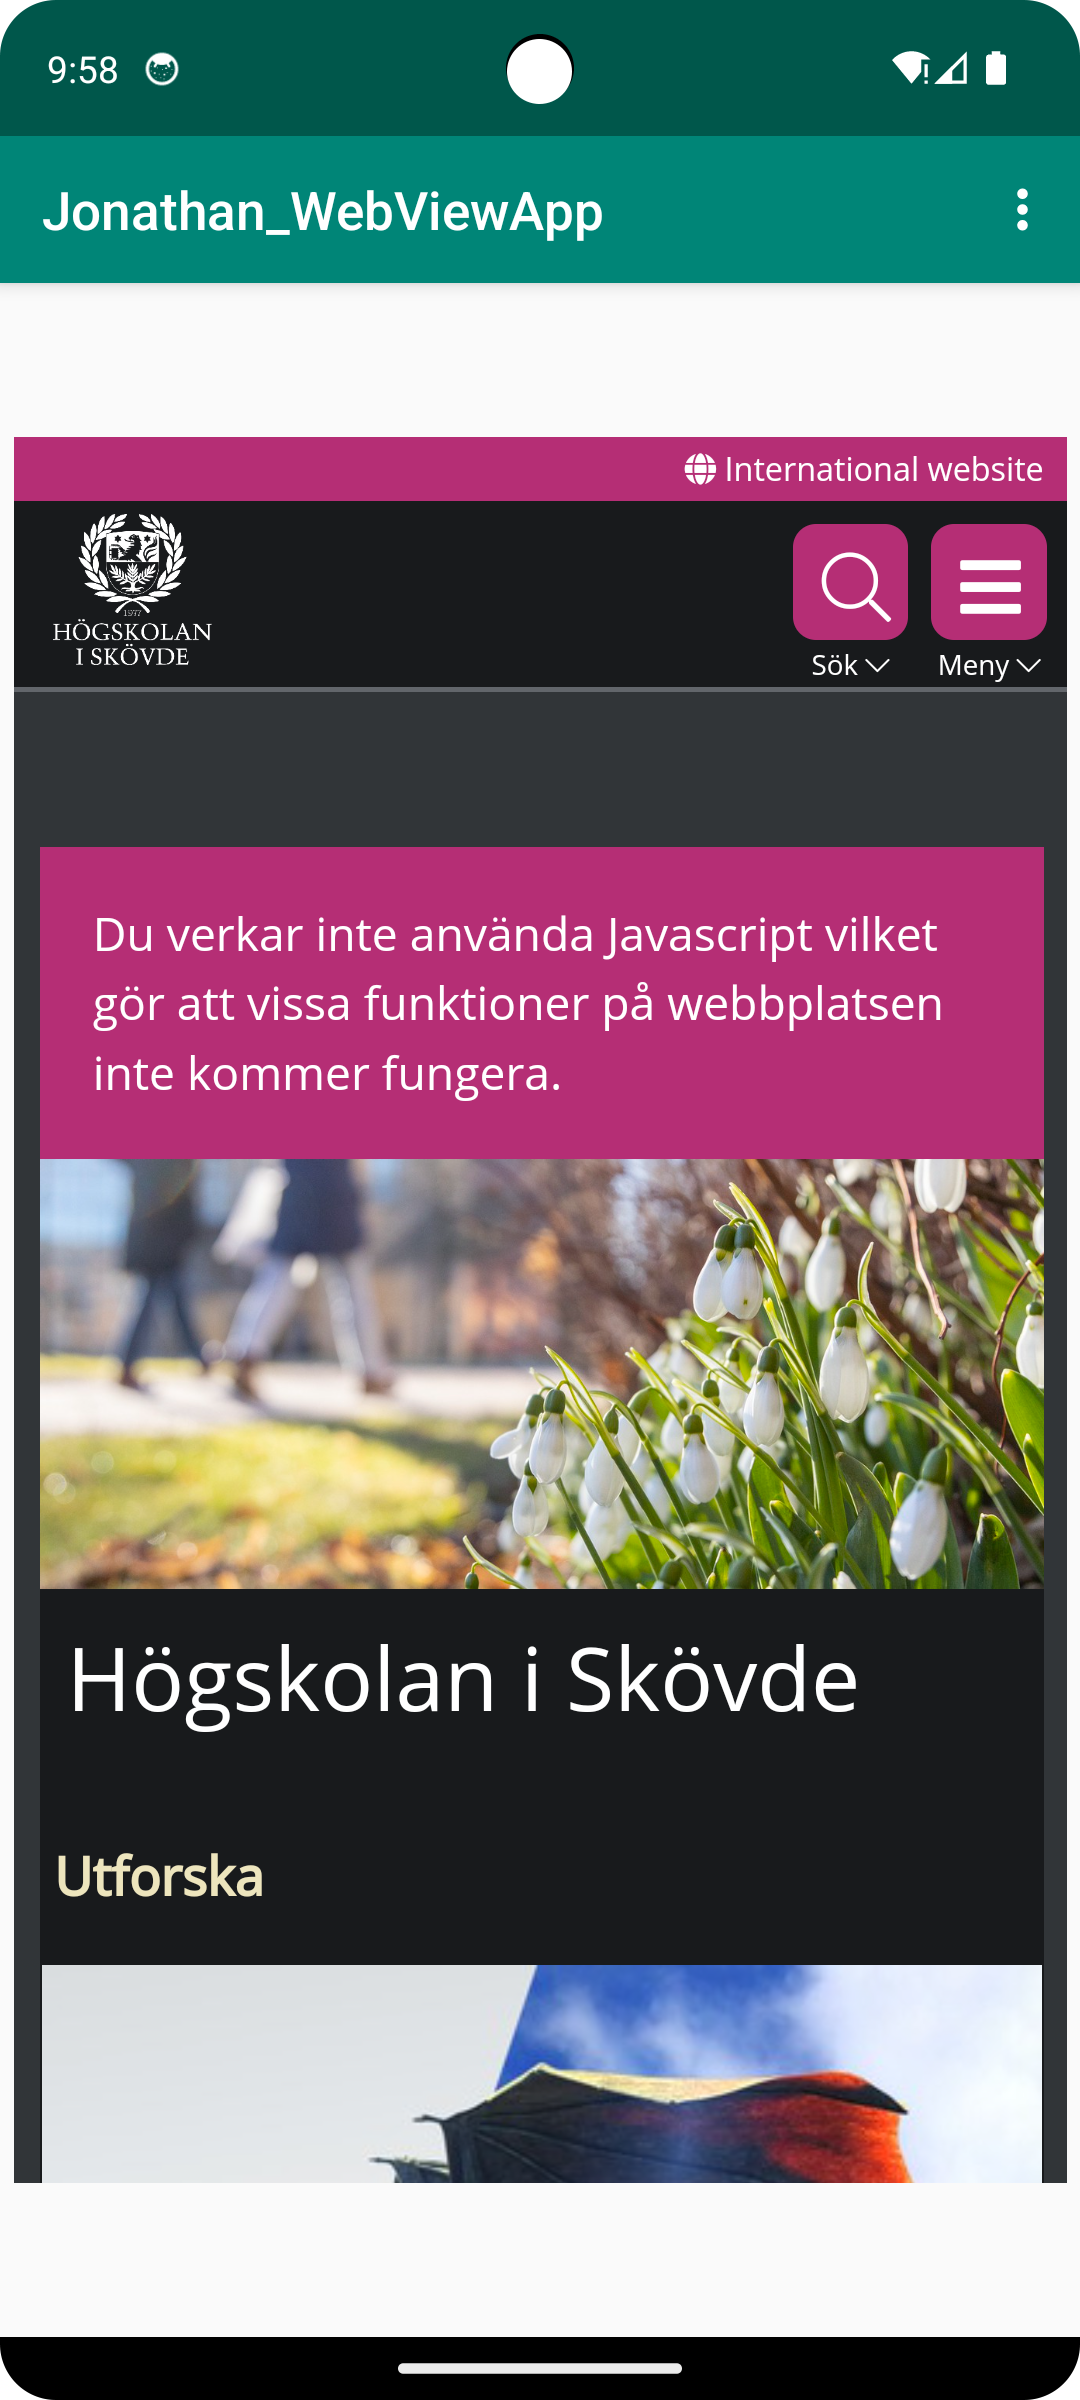
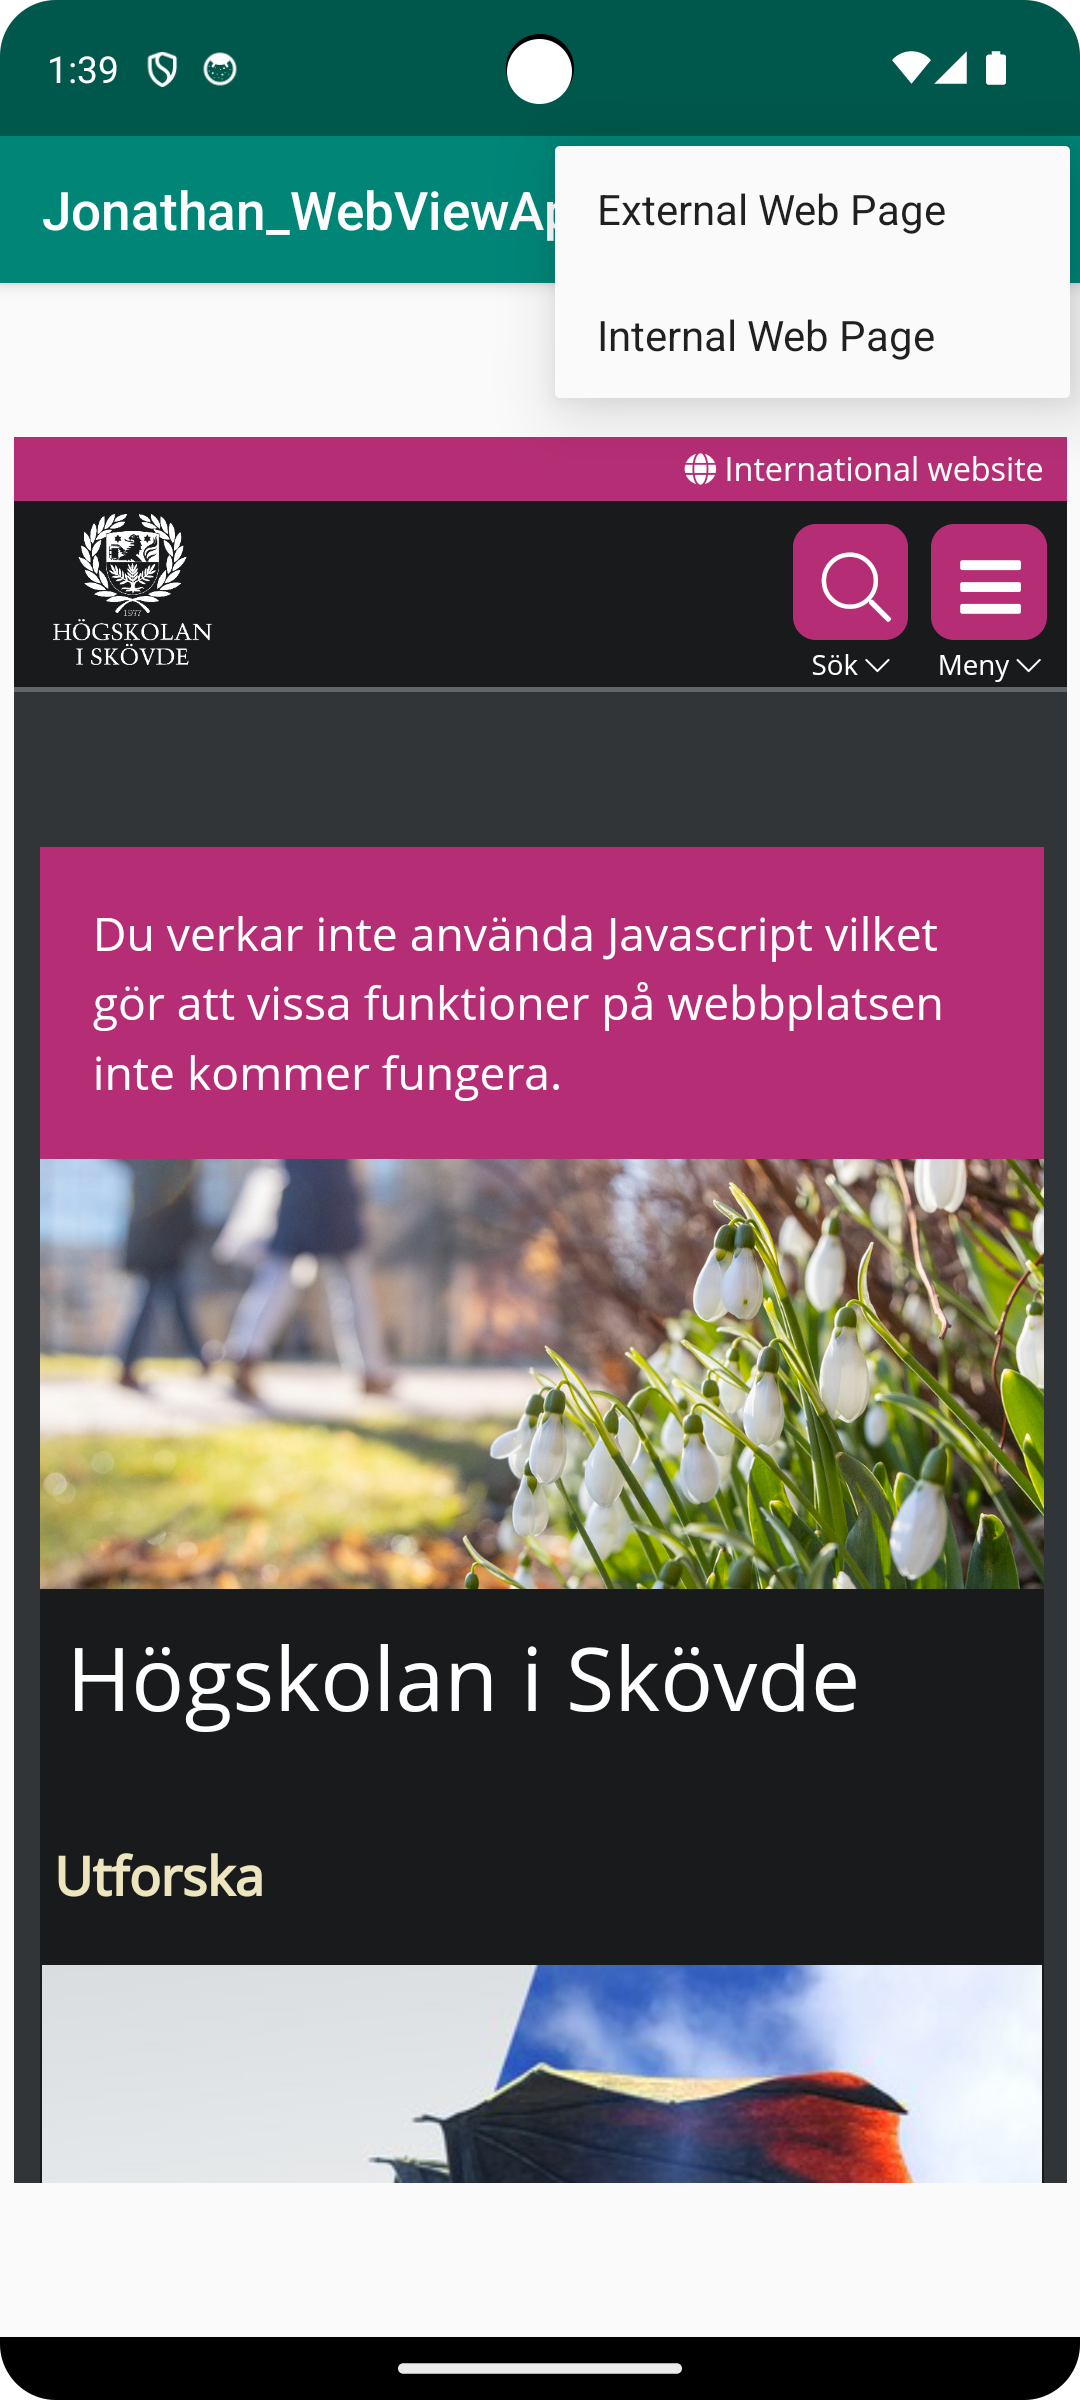
Rapport med screenshots

Changed region(s): [[0.4889, 0.0625, 1.0, 0.1875], [0.1833, 0.0, 0.2139, 0.0312], [0.1222, 0.0, 0.1528, 0.0312]]

diff --git a/README.md b/README.md
@@ -1,42 +1,55 @@
 
 # Rapport
 
-**Skriv din rapport här!**
+- Ändrade namn på appen till 'Jonathan_WebViewApp'
+```
+<string name="app_name">Jonathan_WebViewApp</string>
+```
+- Aktiverade internetåtkomst
+```
+<uses-permission android:name="android.permission.INTERNET" />
+```
+- Skapade ett webview-element där en extern och intern webbsida sedan visades
+```
+<WebView
+        android:id="@+id/minwebviewsID"
+        android:layout_width="401dp"
+        android:layout_height="665dp"
+        android:layout_marginStart="5dp"
+        android:layout_marginLeft="5dp"
+        android:layout_marginTop="5dp"
+        android:layout_marginEnd="5dp"
+        android:layout_marginRight="5dp"
+        android:layout_marginBottom="5dp"
+        app:layout_constraintBottom_toBottomOf="parent"
+        app:layout_constraintEnd_toEndOf="parent"
+        app:layout_constraintStart_toStartOf="parent"
+        app:layout_constraintTop_toBottomOf="@+id/appBarLayout" />
+```
+- 
 
-_Du kan ta bort all text som finns sedan tidigare_.
 
-## Följande grundsyn gäller dugga-svar:
-
-- Ett kortfattat svar är att föredra. Svar som är längre än en sida text (skärmdumpar och programkod exkluderat) är onödigt långt.
-- Svaret skall ha minst en snutt programkod.
-- Svaret skall inkludera en kort övergripande förklarande text som redogör för vad respektive snutt programkod gör eller som svarar på annan teorifråga.
-- Svaret skall ha minst en skärmdump. Skärmdumpar skall illustrera exekvering av relevant programkod. Eventuell text i skärmdumpar måste vara läsbar.
-- I de fall detta efterfrågas, dela upp delar av ditt svar i för- och nackdelar. Dina för- respektive nackdelar skall vara i form av punktlistor med kortare stycken (3-4 meningar).
-
-Programkod ska se ut som exemplet nedan. Koden måste vara korrekt indenterad då den blir lättare att läsa vilket gör det lättare att hitta syntaktiska fel.
+Interna och Externa websidan lades till under deras respektive funktioner.
+"showExternalWebPage()" and "showInternalWebPage()".
 
 ```
-function errorCallback(error) {
-    switch(error.code) {
-        case error.PERMISSION_DENIED:
-            // Geolocation API stöds inte, gör något
-            break;
-        case error.POSITION_UNAVAILABLE:
-            // Misslyckat positionsanrop, gör något
-            break;
-        case error.UNKNOWN_ERROR:
-            // Okänt fel, gör något
-            break;
-    }
+public void showInternalWebPage(){
+        // TODO: Add your code for showing internal web page here
+        findViewById(R.id.minwebviewsID);
+        myWebView = findViewById(R.id.minwebviewsID);
+        myWebView.setWebViewClient(new WebViewClient()); // Do not open in Chrome!
+        myWebView.loadUrl("///android_asset/internal.html");
+}
+    
+public void showExternalWebPage(){
+    // TODO: Add your code for showing external web page here
+    findViewById(R.id.minwebviewsID);
+    myWebView = findViewById(R.id.minwebviewsID);
+    myWebView.setWebViewClient(new WebViewClient()); // Do not open in Chrome!
+    myWebView.loadUrl("https://his.se");
 }
 ```
 
-Bilder läggs i samma mapp som markdown-filen.
+![](Screenshot_external.png)
 
-![](android.png)
-
-Läs gärna:
-
-- Boulos, M.N.K., Warren, J., Gong, J. & Yue, P. (2010) Web GIS in practice VIII: HTML5 and the canvas element for interactive online mapping. International journal of health geographics 9, 14. Shin, Y. &
-- Wunsche, B.C. (2013) A smartphone-based golf simulation exercise game for supporting arthritis patients. 2013 28th International Conference of Image and Vision Computing New Zealand (IVCNZ), IEEE, pp. 459–464.
-- Wohlin, C., Runeson, P., Höst, M., Ohlsson, M.C., Regnell, B., Wesslén, A. (2012) Experimentation in Software Engineering, Berlin, Heidelberg: Springer Berlin Heidelberg.
+![](Screenshot_internal.png)
